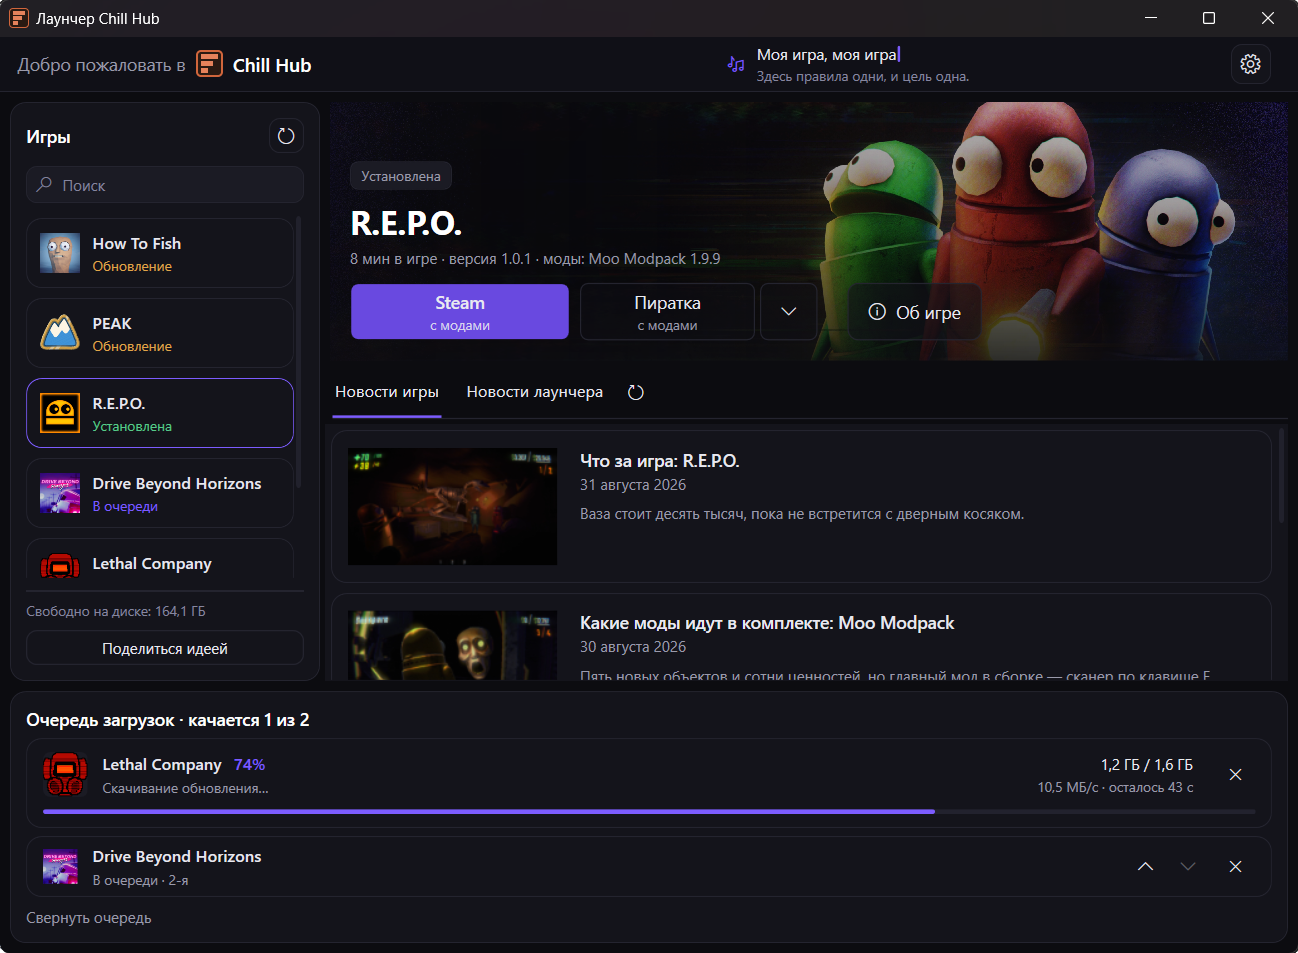
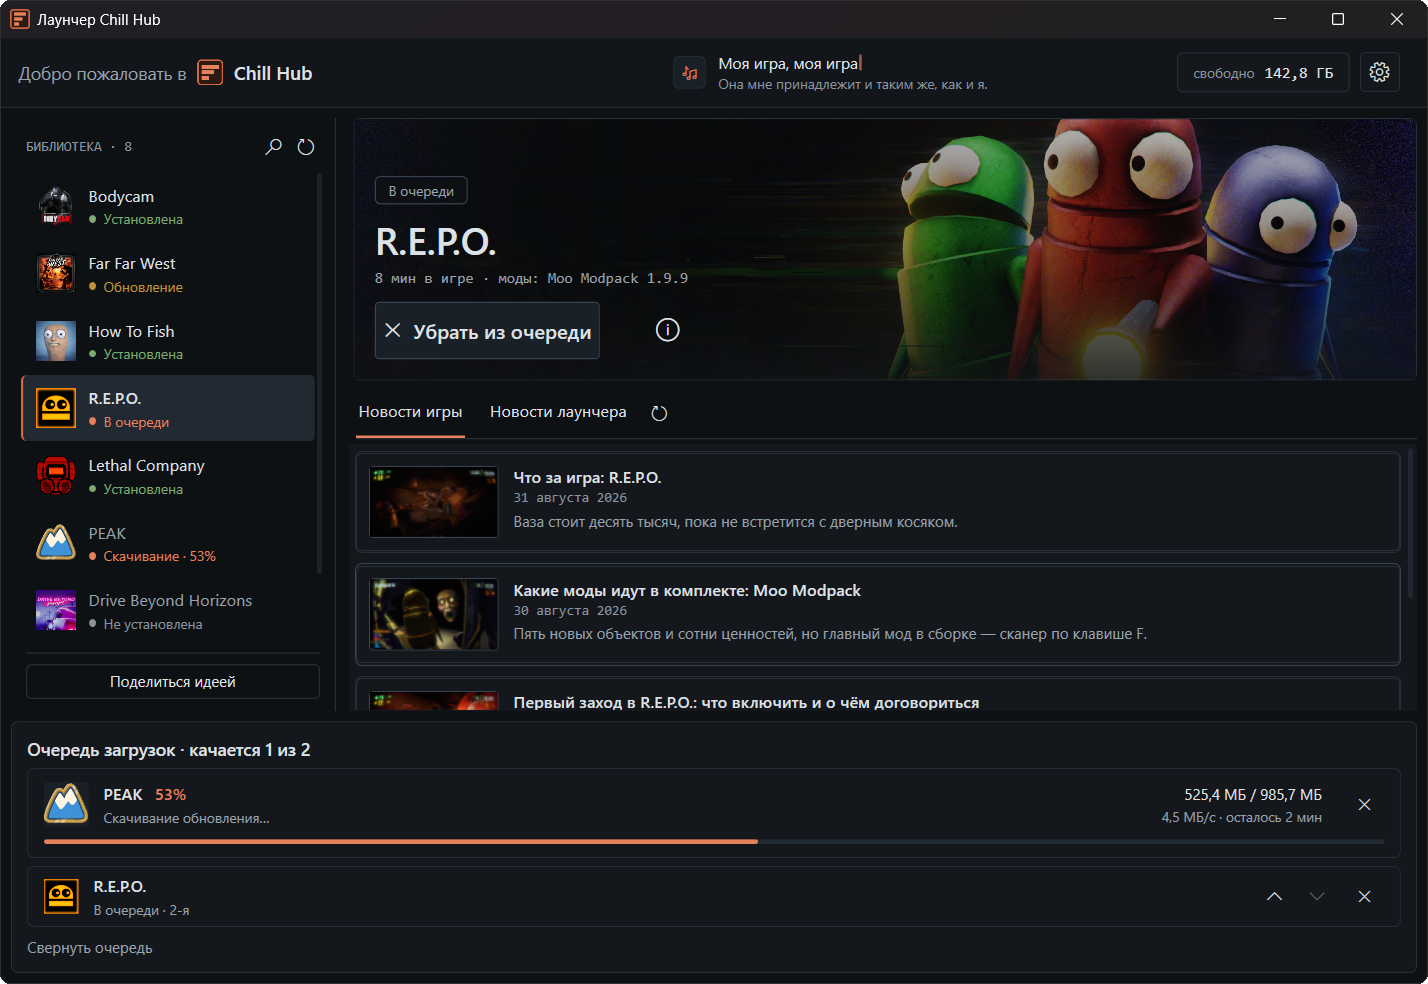
Показать на сайте свежий снимок лаунчера (#251)
На главной висел старый кадр: другая раскладка списка игр и очередь
загрузок из прошлой версии. Первое, что видит человек на странице, —
не то, что он получит, поставив лаунчер.

Размеры в разметке идут вместе с файлом: они держат место под картинку
до её загрузки, и старая пара 1298x953 при новом кадре 1428x984
дёргала бы страницу в момент отрисовки.

diff --git a/landing/index.html b/landing/index.html
@@ -98,7 +98,7 @@
            так видно, и вторым голосом спорила с заголовком слева. -->
       <div class="hero-shot">
         <img src="./assets/images/launcher.png" alt="Окно лаунчера: слева список игр, справа выбранная игра, внизу очередь загрузок"
-             width="1298" height="953" class="skeleton" fetchpriority="high" decoding="async">
+             width="1428" height="984" class="skeleton" fetchpriority="high" decoding="async">
       </div>
     </div>
   </section>
